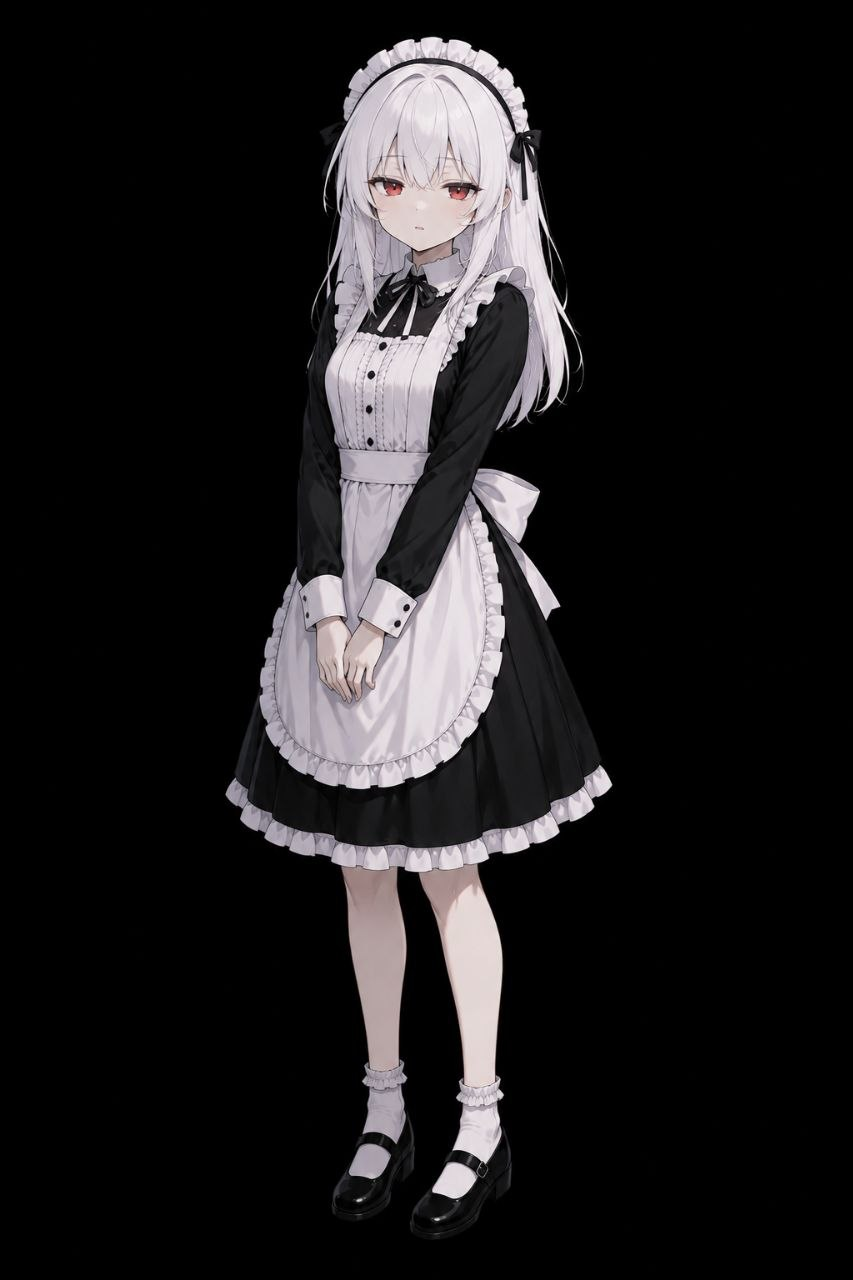
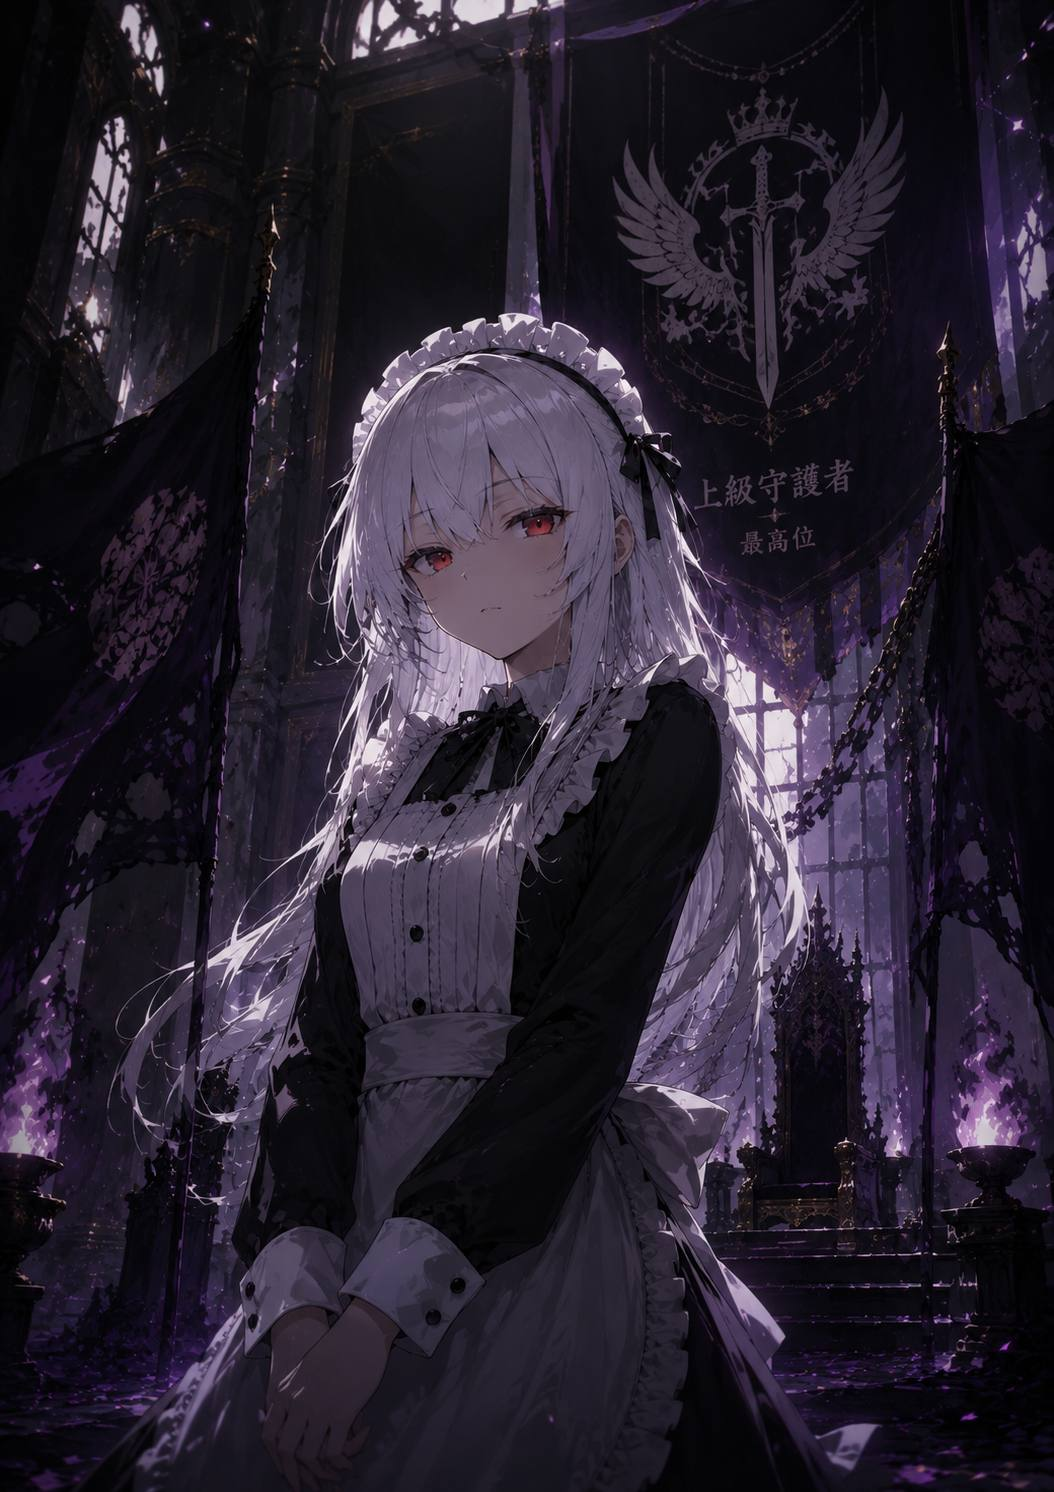
final

diff --git a/src/data/characters.ts b/src/data/characters.ts
@@ -44,102 +44,100 @@ export const rankGlow: Record<Rank, string> = {
 export const characters: Character[] = [
   {
     id: 1,
-    name: 'Кассиан',
+    name: 'Каэль Куроцуки',
     rank: 'Верховный Страж',
-    age: 47,
+    age: 27,
     race: 'Человек',
     origin: 'Вердаль, Северные Земли',
     specialization: 'Тактика и командование',
-    image: '/public/images/krip.jpg',
-    bio: 'Кассиан Дорр прошёл путь от безымянного новобранца до Верховного Стража за двадцать лет безупречной службы. Его стратегический ум и железная воля сделали его символом справедливости для всей организации. Он лично участвовал в подавлении Восстания Семи Башен и раскрытии заговора «Алой Нити», унёсшего жизни трёх предыдущих Верховных Стражей.',
+    image: './public/images/Kael.jpg',
+    bio: 'Каэль возглавляет Стражу Вердикта — организацию, которую одинаково не любят фанатики с обеих сторон войны именно потому, что она не встаёт ни на одну из них. Он лично ведёт самые деликатные дела: военные преступления, саботаж перемирий, шпионаж под личиной беженца. Среди офицеров о нём говорят с уважением и лёгким страхом — не как о командире, а как о живом воплощении устава.',
     skills: ['Тактическое командование', 'Боевое фехтование', 'Дипломатия', 'Допрос'],
     motto: '«Вердикт не ждёт — справедливость не терпит промедления.»',
     status: 'active',
-    joinedYear: 1287,
+    joinedYear: 947,
     achievements: [
       'Подавление Восстания Семи Башен',
       'Раскрытие заговора «Алой Нити»',
       'Орден Незыблемого Щита',
-      '20 лет безупречной службы',
+      '7 лет безупречной службы',
     ],
   },
   {
     id: 2,
-    name: 'Элара Нийт',
+    name: 'Элиана Вейр',
     rank: 'Страж Вердикта',
-    age: 34,
-    race: 'Полуэльф',
+    age: 19,
+    race: 'Человек',
     origin: 'Серебряный Лес, Запад',
-    specialization: 'Магия допроса и следствие',
-    image: '/images/char-mage.jpg',
-    bio: 'Элара выросла на границе двух миров — человеческого и эльфийского. Это двойственное наследие наделило её уникальной способностью чувствовать ложь и манипулировать тонкими нитями магии разума. В Стражах Вердикта она отвечает за работу с магическими уликами и допросы подозреваемых, чьи преступления выходят за рамки обычного понимания.',
-    skills: ['Магия разума', 'Анализ улик', 'Руническая дешифровка', 'Медитация'],
+    specialization: '',
+    image: '/images/krip.jpg',
+    bio: 'К девятнадцати годам её навыки достигли такого уровня, что она стала единственной личной горничной главы организации. Для посторонних она всё ещё выглядит как тихая, вежливая девушка в классической форме, которая занимается исключительно бытовыми делами. Но те, кто знает её настоящие способности, прекрасно понимают: если Элиана действительно решила остаться незамеченной, обнаружить её практически невозможно.',
+    skills: ['Бесшумная ходьба', 'Абсолютная скрытность', 'Скрытое присутствие', 'Бытовые навыки', 'Наблюдательность'],
     motto: '«Ложь оставляет следы там, где правда не оставляет ничего.»',
     status: 'active',
-    joinedYear: 1299,
+    joinedYear: 955,
     achievements: [
-      'Дело о Проклятии Вестхолла',
-      'Расшифровка Запретных Свитков',
-      'Медаль «За магическое расследование»',
     ],
   },
   {
     id: 3,
-    name: 'Рикт Тенебр',
-    rank: 'Следователь',
-    age: 28,
-    race: 'Человек',
-    origin: 'Порт Калор, Южное побережье',
-    specialization: 'Агентурная сеть и внедрение',
-    image: '/images/char-assassin.jpg',
-    bio: 'Прошлое Рикта покрыто тенью. Известно лишь, что до вступления в Стражи он несколько лет провёл в преступном мире портовых городов, что сделало его незаменимым агентом внутри самых тёмных организаций. Его личность — инструмент, а не судьба. Говорят, он может стать кем угодно.',
-    skills: ['Маскировка', 'Рукопашный бой', 'Работа с информаторами', 'Яды и антидоты'],
-    motto: '«Тень не выбирает форму — форму выбирает свет.»',
-    status: 'active',
+    name: 'Пусто',
+    rank: 'нету',
+    age: 0,
+    race: '',
+    origin: '',
+    specialization: '',
+    image: '',
+    bio: '',
+    skills: [],
+    motto: '',
+    status: 'inactive',
     joinedYear: 1304,
     achievements: [
-      'Внедрение в Гильдию Теней',
-      'Нейтрализация Охотников на Стражей',
-      'Специальная грамота Верховного Стража',
+      '',
+      '',
+      '',
     ],
   },
   {
     id: 4,
-    name: 'Сельвира Ирт',
-    rank: 'Страж Вердикта',
-    age: 39,
-    race: 'Человек',
-    origin: 'Крепость Аутум, Восток',
-    specialization: 'Боевой авангард и защита',
-    image: '/images/char-paladin.jpg',
-    bio: 'Сельвира — дочь потомственного воина, с детства воспитанная в традициях чести и долга. Её боевые навыки совершенны, а вера в справедливость непоколебима. Она первой бросается в бой и последней покидает поле сражения. Среди младших стражей она пользуется безграничным уважением и служит живым примером того, каким должен быть настоящий Страж.',
-    skills: ['Паладинское боевое искусство', 'Защита союзников', 'Боевая медицина', 'Харизматическое лидерство'],
-    motto: '«Щит стоит, пока стоит тот, кто его держит.»',
-    status: 'active',
-    joinedYear: 1294,
+    name: 'Пусто',
+    rank: 'нету',
+    age: 0,
+    race: '',
+    origin: '',
+    specialization: '',
+    image: '',
+    bio: '',
+    skills: [],
+    motto: '',
+    status: 'inactive',
+    joinedYear: 1304,
     achievements: [
-      'Оборона Прохода Красного Ущелья',
-      'Орден Золотого Щита',
-      'Звание «Несломленная»',
+      '',
+      '',
+      '',
     ],
   },
   {
     id: 5,
-    name: 'Аэрин Вейл',
-    rank: 'Разведчик',
-    age: 22,
-    race: 'Эльф',
-    origin: 'Лес Этерна, Север',
-    specialization: 'Разведка и слежка',
-    image: '/images/char-scout.jpg',
-    bio: 'Один из самых молодых членов организации. Аэрин поступил в Стражи после того, как его деревня была уничтожена бандой контрабандистов. Его ненависть к несправедливости трансформировалась в острые навыки выживания и наблюдения. Он видит то, что остальные упускают, и слышит то, о чём молчат.',
-    skills: ['Стрельба из лука', 'Скрытность', 'Трекинг', 'Выживание в дикой природе'],
-    motto: '«Лес видит всё. Я — его глаза.»',
-    status: 'active',
-    joinedYear: 1307,
+    name: 'Пусто',
+    rank: 'нету',
+    age: 0,
+    race: '',
+    origin: '',
+    specialization: '',
+    image: '',
+    bio: '',
+    skills: [],
+    motto: '',
+    status: 'inactive',
+    joinedYear: 1304,
     achievements: [
-      'Обнаружение лагеря Лесных Волков',
-      'Разведка перед битвой у Серого Холма',
+      '',
+      '',
+      '',
     ],
   },
 ];

diff --git a/src/components/RanksPage.tsx b/src/components/RanksPage.tsx
@@ -38,7 +38,7 @@ const ranksData: { rank: Rank; icon: string; description: string; duties: string
       'Ношение Знака Вердикта',
       'Голос на внутренних выборах',
     ],
-    count: 12,
+    count: 1,
   },
   {
     rank: 'Следователь',
@@ -58,7 +58,7 @@ const ranksData: { rank: Rank; icon: string; description: string; duties: string
       'Официальные полномочия для расследований',
       'Ношение знака Следователя',
     ],
-    count: 20,
+    count: 0,
   },
   {
     rank: 'Разведчик',
@@ -77,7 +77,7 @@ const ranksData: { rank: Rank; icon: string; description: string; duties: string
       'Право отказа от задания без объяснений',
       'Особые условия оплаты',
     ],
-    count: 9,
+    count: 0,
   },
   {
     rank: 'Новобранец',
@@ -96,7 +96,7 @@ const ranksData: { rank: Rank; icon: string; description: string; duties: string
       'Защита организации',
       'Наставник из числа опытных стражей',
     ],
-    count: 5,
+    count: 0,
   },
 ];
 

diff --git a/src/components/HomePage.tsx b/src/components/HomePage.tsx
@@ -86,7 +86,7 @@ export default function HomePage({ onNavigate }: HomePageProps) {
           <div className="grid grid-cols-2 md:grid-cols-4 gap-px bg-amber-900/20 rounded-lg overflow-hidden border border-amber-900/30">
             {[
               { value: '300+', label: 'Лет истории' },
-              { value: '47', label: 'Активных стражей' },
+              { value: '1', label: 'Активных стражей' },
               { value: '1 200+', label: 'Закрытых дел' },
               { value: '12', label: 'Регионов влияния' },
             ].map((stat, i) => (
